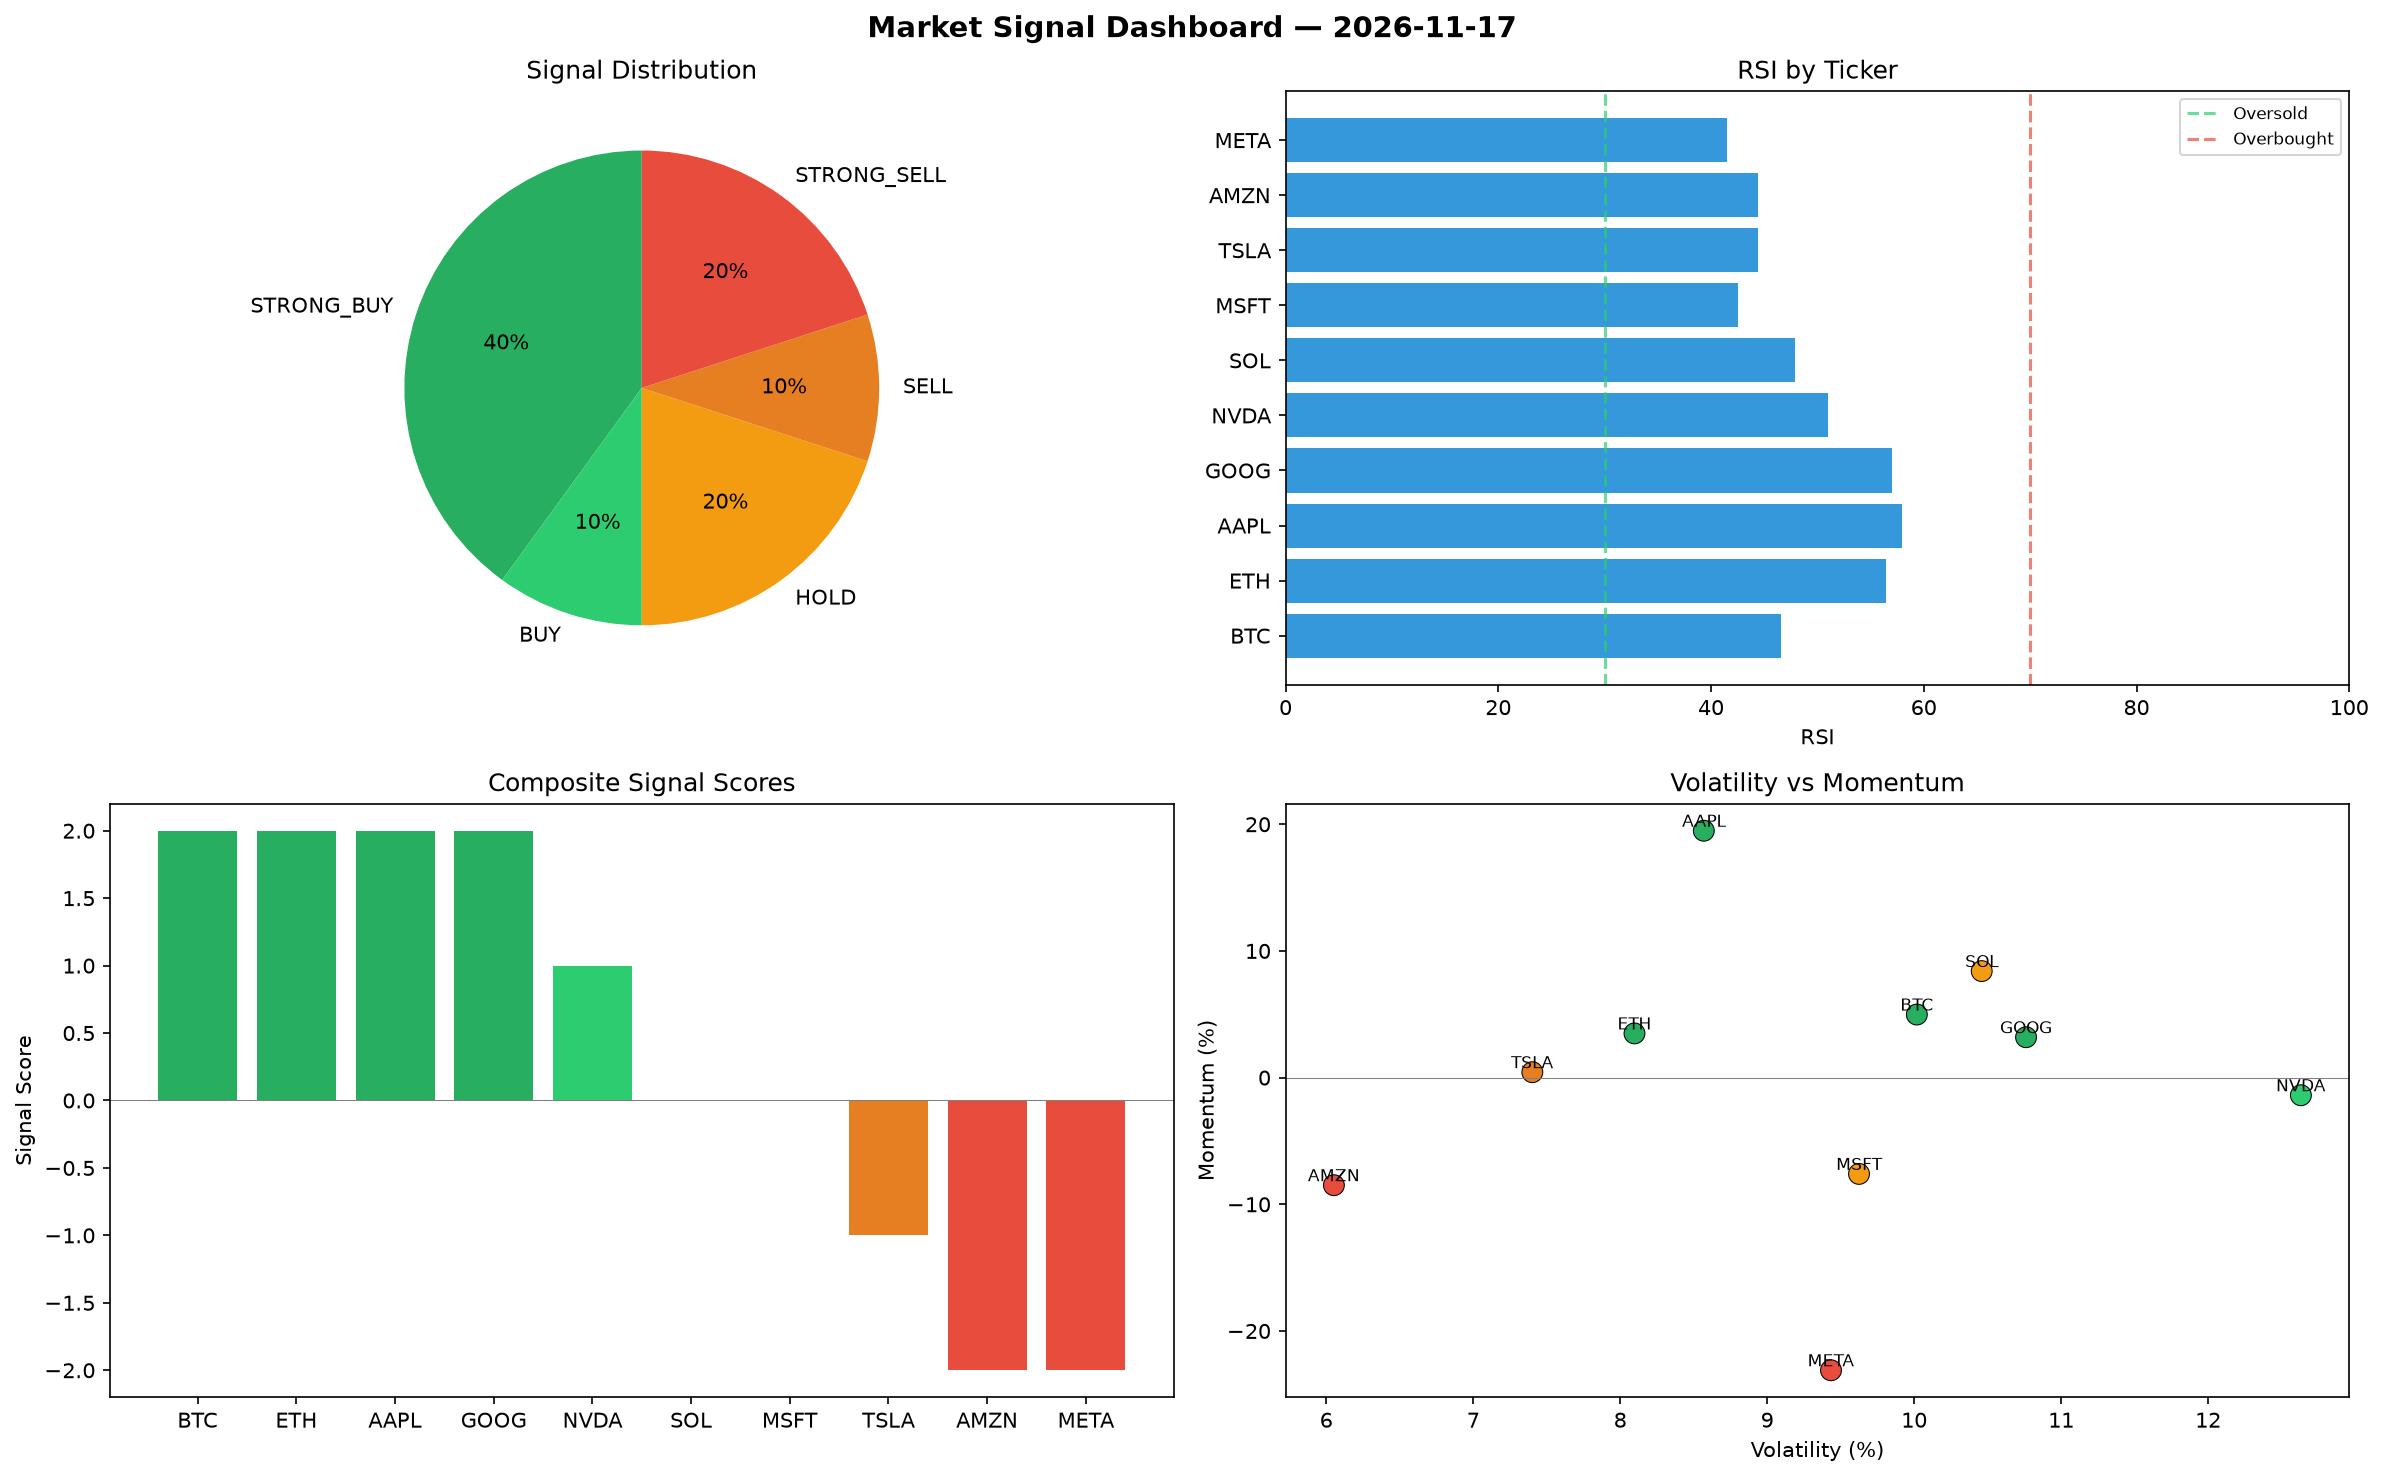
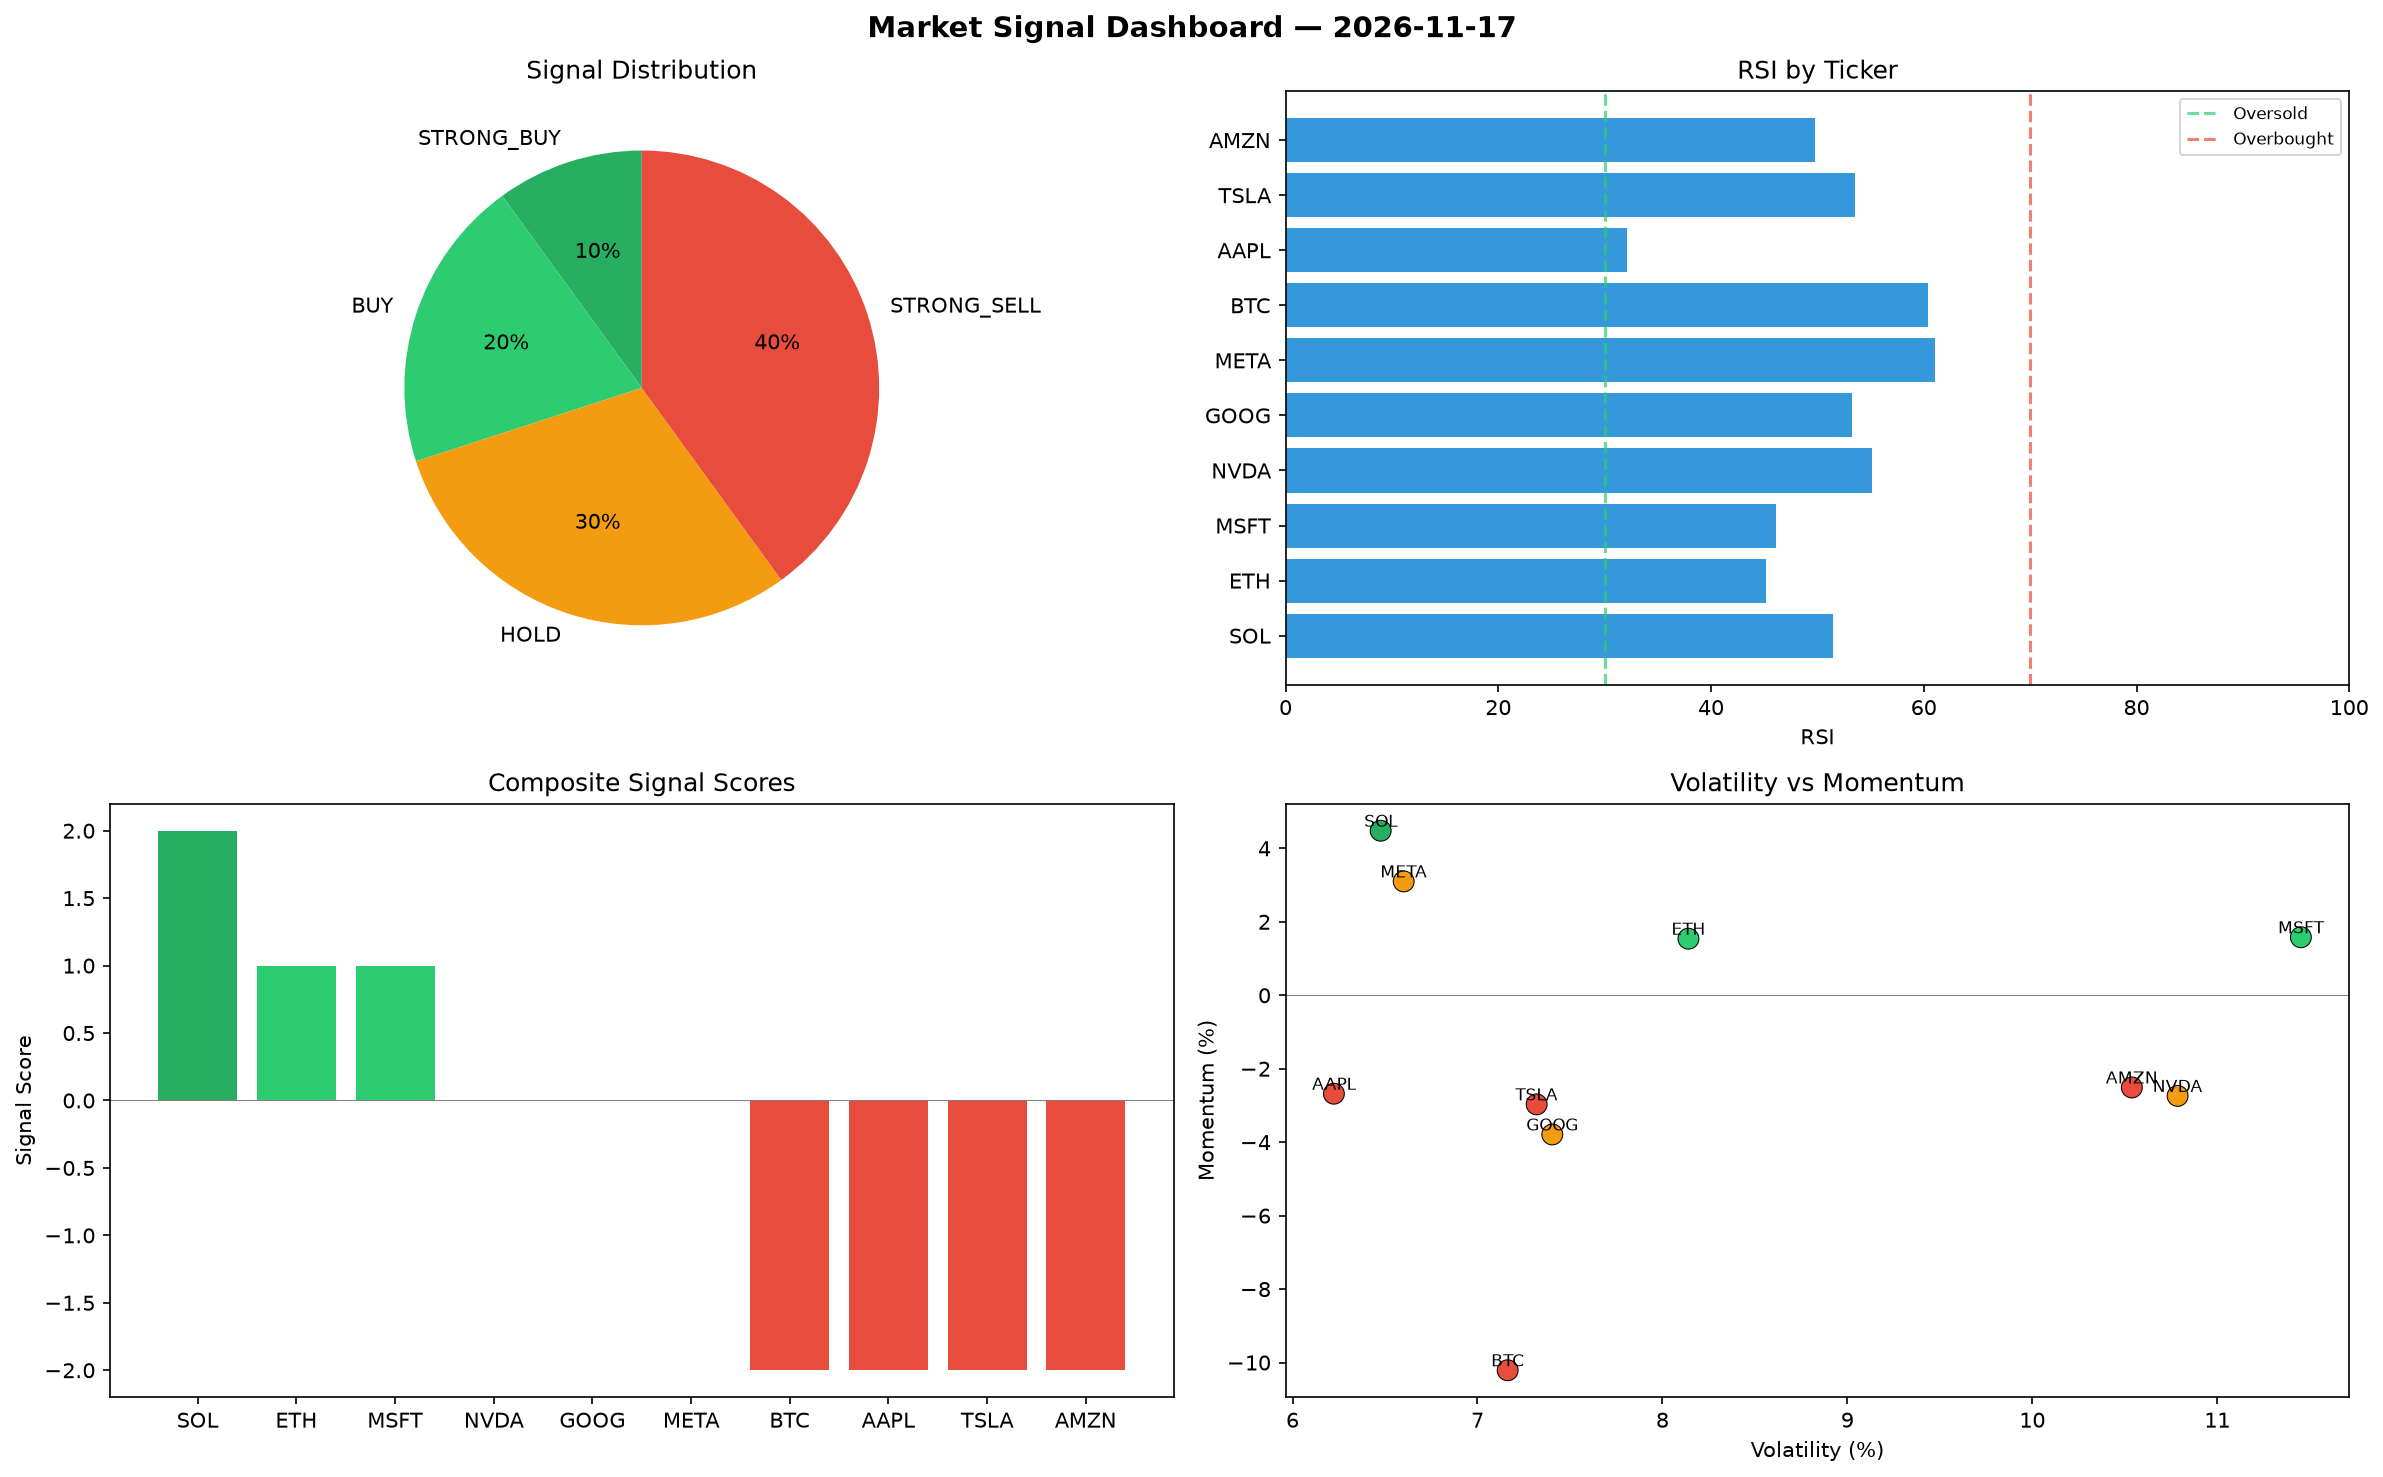
automated-bots: market signals 2026-11-17T10:57

diff --git a/logs/2026-11-17.md b/logs/2026-11-17.md
@@ -1,6 +1,6 @@
 # Market Signal Report — 2026-11-17
 
-**Run ID:** `7a66a01ddc` | **Buy:** 5 | **Sell:** 3 | **Hold:** 2
+**Run ID:** `ec99c50e6c` | **Buy:** 3 | **Sell:** 4 | **Hold:** 3
 
 ![Dashboard](2026-11-17_dashboard.png)
 
@@ -8,28 +8,28 @@
 
 | Ticker | Price | Signal | Score | RSI | Momentum | Confidence |
 |--------|-------|--------|-------|-----|----------|------------|
-| BTC | $1772.55 | **STRONG_BUY** | 2 | 46.6 | 0.0498 | 0.5 |
-| ETH | $1241.43 | **STRONG_BUY** | 2 | 56.44 | 0.0349 | 0.5 |
-| AAPL | $4804.21 | **STRONG_BUY** | 2 | 57.91 | 0.1949 | 0.5 |
-| GOOG | $3223.59 | **STRONG_BUY** | 2 | 57.02 | 0.0319 | 0.5 |
-| NVDA | $4806.1 | **BUY** | 1 | 51.0 | -0.0139 | 0.25 |
-| SOL | $5052.87 | **HOLD** | 0 | 47.92 | 0.0841 | 0.0 |
-| MSFT | $2916.15 | **HOLD** | 0 | 42.5 | -0.076 | 0.0 |
-| TSLA | $452.15 | **SELL** | -1 | 44.44 | 0.0043 | 0.25 |
-| AMZN | $3902.19 | **STRONG_SELL** | -2 | 44.38 | -0.0849 | 0.5 |
-| META | $2445.79 | **STRONG_SELL** | -2 | 41.49 | -0.231 | 0.5 |
+| SOL | $4417.87 | **STRONG_BUY** | 2 | 51.42 | 0.0448 | 0.5 |
+| ETH | $2995.4 | **BUY** | 1 | 45.2 | 0.0154 | 0.25 |
+| MSFT | $2362.76 | **BUY** | 1 | 46.11 | 0.0158 | 0.25 |
+| NVDA | $3884.45 | **HOLD** | 0 | 55.18 | -0.0274 | 0.0 |
+| GOOG | $3371.72 | **HOLD** | 0 | 53.21 | -0.0379 | 0.0 |
+| META | $994.98 | **HOLD** | 0 | 61.06 | 0.031 | 0.0 |
+| BTC | $2030.66 | **STRONG_SELL** | -2 | 60.43 | -0.1021 | 0.5 |
+| AAPL | $775.66 | **STRONG_SELL** | -2 | 32.09 | -0.0268 | 0.5 |
+| TSLA | $3372.56 | **STRONG_SELL** | -2 | 53.54 | -0.0297 | 0.5 |
+| AMZN | $26.8 | **STRONG_SELL** | -2 | 49.82 | -0.0251 | 0.5 |
 
 ## Delta vs Yesterday
 
 | Ticker | Today | Yesterday | Price Change | Signal Changed |
 |--------|-------|-----------|-------------|----------------|
-| BTC | STRONG_BUY | STRONG_BUY | 📉 -55.98% | — |
-| ETH | STRONG_BUY | HOLD | 📉 -68.88% | ⚠ YES |
-| AAPL | STRONG_BUY | BUY | 📈 100.37% | ⚠ YES |
-| GOOG | STRONG_BUY | STRONG_SELL | 📈 189.62% | ⚠ YES |
-| NVDA | BUY | SELL | 📈 315.65% | ⚠ YES |
-| SOL | HOLD | STRONG_BUY | 📈 663.45% | ⚠ YES |
-| MSFT | HOLD | STRONG_BUY | 📈 155.95% | ⚠ YES |
-| TSLA | SELL | SELL | 📉 -69.94% | — |
-| AMZN | STRONG_SELL | HOLD | 📈 49.17% | ⚠ YES |
-| META | STRONG_SELL | STRONG_SELL | 📈 721.07% | — |
+| SOL | STRONG_BUY | STRONG_BUY | 📈 567.5% | — |
+| ETH | BUY | HOLD | 📉 -24.91% | ⚠ YES |
+| MSFT | BUY | STRONG_BUY | 📈 107.38% | ⚠ YES |
+| NVDA | HOLD | SELL | 📈 235.94% | ⚠ YES |
+| GOOG | HOLD | STRONG_SELL | 📈 202.93% | ⚠ YES |
+| META | HOLD | STRONG_SELL | 📈 234.02% | ⚠ YES |
+| BTC | STRONG_SELL | STRONG_BUY | 📉 -49.57% | ⚠ YES |
+| AAPL | STRONG_SELL | BUY | 📉 -67.65% | ⚠ YES |
+| TSLA | STRONG_SELL | SELL | 📈 124.19% | ⚠ YES |
+| AMZN | STRONG_SELL | HOLD | 📉 -98.98% | ⚠ YES |
